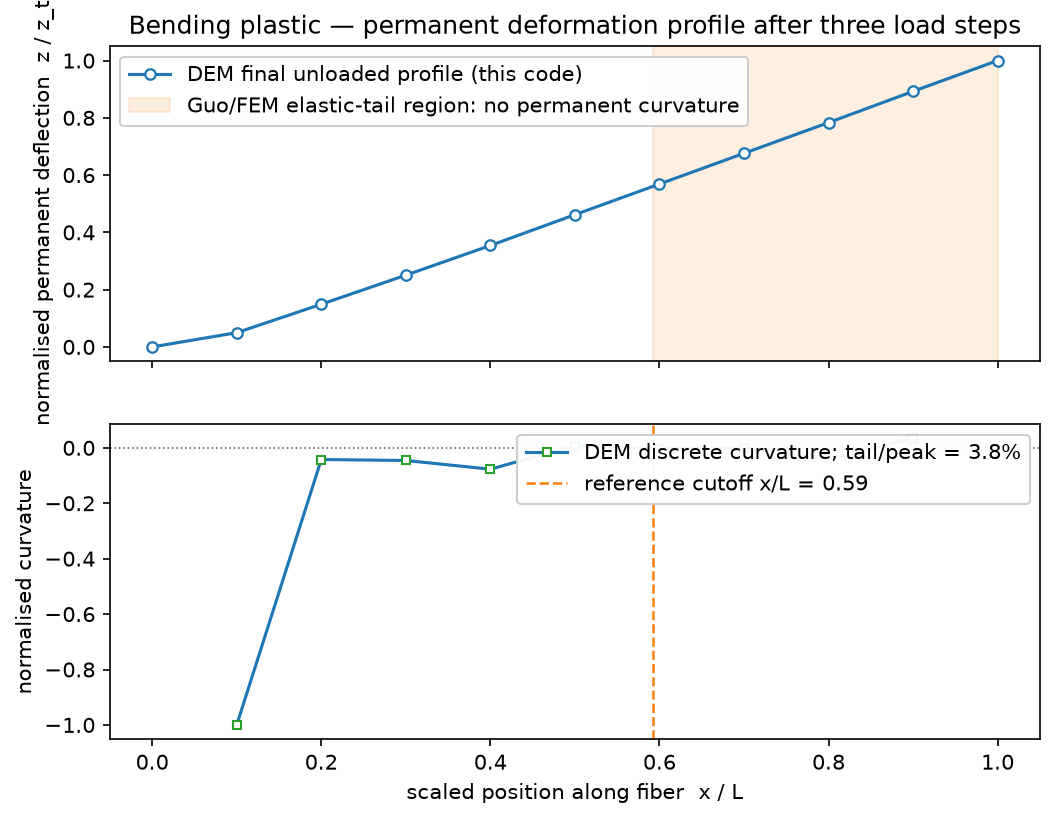
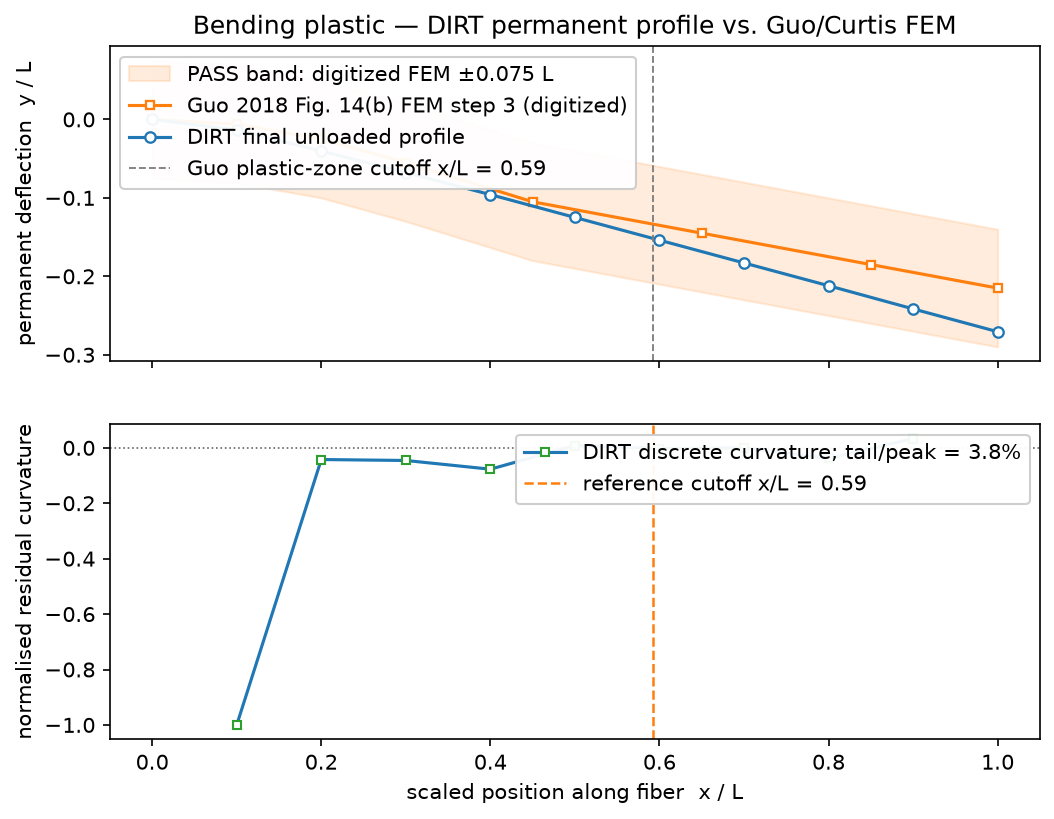
Add FEM profile gate for Guo bending plastic validation

diff --git a/examples/fiber_bond/validate.py b/examples/fiber_bond/validate.py
@@ -54,10 +54,35 @@ def load_profile(path):
     return sorted(rows, key=lambda r: r["x0"])
 
 
+def load_xy_reference(path):
+    rows = []
+    with open(path, newline="") as f:
+        lines = [line for line in f if not line.lstrip().startswith("#")]
+    reader = csv.DictReader(lines)
+    for row in reader:
+        rows.append((float(row["x_over_L"]), float(row["y_over_L"])))
+    return rows
+
+
 def linear_fit_through_origin(x, y):
     sxx = sum(xi * xi for xi in x)
     sxy = sum(xi * yi for xi, yi in zip(x, y))
     return sxy / sxx if sxx else 0.0
+
+
+def interp_linear(xs, ys, x):
+    if not xs:
+        return float("nan")
+    if x <= xs[0]:
+        return ys[0]
+    if x >= xs[-1]:
+        return ys[-1]
+    for i in range(len(xs) - 1):
+        if xs[i] <= x <= xs[i + 1]:
+            span = xs[i + 1] - xs[i]
+            t = (x - xs[i]) / span if span else 0.0
+            return ys[i] * (1.0 - t) + ys[i + 1] * t
+    return ys[-1]
 
 
 # ── Plot helpers ─────────────────────────────────────────────────────────────
@@ -597,6 +622,10 @@ def validate_bending_plastic_guo(rows, profile, out_dir):
     # straight-line extension of the fixed-end permanent rotation.
     profile_ok = False
     tail_curv_ratio = float("inf")
+    fem_profile_ok = False
+    fem_rms_err = float("inf")
+    fem_max_err = float("inf")
+    fem_tip_rel_err = float("inf")
     tip_set_ratio = 0.0
     cutoff_x_over_l = float("nan")
     profile_rows = profile or []
@@ -623,14 +652,41 @@ def validate_bending_plastic_guo(rows, profile, out_dir):
         max_curv = max(curv) if curv else 0.0
         tail_curv = [c for s, c in zip(curv_x, curv) if s >= cutoff_x_over_l]
         tail_curv_ratio = (max(tail_curv) / max_curv) if max_curv > 0 and tail_curv else 0.0
-        profile_ok = tip_set_ratio > 0.02 and tail_curv_ratio <= 0.10
+        reference_path = Path(__file__).resolve().parent / "data" / "guo2018_fig14b_step3_fem_alpha1885.csv"
+        fem_ref = load_xy_reference(reference_path)
+        sx = [(x - xs0[0]) / length for x in xs0]
+        y_over_l = [z / length for z in zs]
+        fem_errs = []
+        for x_ref, y_ref in fem_ref:
+            y_dem = interp_linear(sx, y_over_l, x_ref)
+            fem_errs.append(y_dem - y_ref)
+        fem_rms_err = math.sqrt(sum(e * e for e in fem_errs) / len(fem_errs)) if fem_errs else float("inf")
+        fem_max_err = max(abs(e) for e in fem_errs) if fem_errs else float("inf")
+        fem_tip = fem_ref[-1][1] if fem_ref else float("nan")
+        dem_tip = interp_linear(sx, y_over_l, 1.0)
+        fem_tip_rel_err = abs(dem_tip - fem_tip) / abs(fem_tip) if abs(fem_tip) > 1e-30 else float("inf")
+        # The reference is a digitized FEM curve for a 20/40/60 sphero-cylinder
+        # study. The paper reports the coarsest DEM fiber still differs from FEM
+        # by about 30% at the free end (Fig. 15); this 11-sphere validation case
+        # is intentionally smaller, so the gate keeps that published coarse-grid
+        # envelope visible instead of pretending to be mesh-converged.
+        fem_profile_ok = (
+            fem_rms_err <= 0.05
+            and fem_max_err <= 0.075
+            and fem_tip_rel_err <= 0.35
+        )
+        profile_ok = tip_set_ratio > 0.02 and tail_curv_ratio <= 0.10 and fem_profile_ok
 
     ok = cap_ok and accum_ok and profile_ok
     print(f"  Guo load F_t^0 used            : {f_peak:.6e} N")
     print(f"  predicted elastic-tail start   : x/L = {cutoff_x_over_l:.3f}  (1 - M_p/(F_t^0 L))")
     print(f"  final tip permanent set / L    : {tip_set_ratio:.3%}")
     print(f"  tail curvature / peak curvature: {tail_curv_ratio:.3%}")
-    print(f"  permanent profile gate?        : {profile_ok}  (set/L > 2%, tail curvature <= 10%)")
+    print(f"  FEM profile RMS |Δ(y/L)|       : {fem_rms_err:.4f}  (limit 0.050)")
+    print(f"  FEM profile max |Δ(y/L)|       : {fem_max_err:.4f}  (limit 0.075)")
+    print(f"  FEM free-end relative error    : {fem_tip_rel_err:.3%}  (limit 35%)")
+    print(f"  permanent profile gate?        : {profile_ok}  "
+          "(set/L > 2%, tail curvature <= 10%, FEM profile within coarse-grid band)")
     print(f"  cap respected?                 : {cap_ok}")
     print(f"  status                         : {'PASS' if ok else 'FAIL'}")
 
@@ -704,17 +760,25 @@ def validate_bending_plastic_guo(rows, profile, out_dir):
         xs0 = [p["x0"] for p in profile_rows]
         zs = [p["z"] for p in profile_rows]
         length = xs0[-1] - xs0[0]
-        z_tip = zs[-1] if abs(zs[-1]) > 1e-30 else 1.0
         sx = [(x - xs0[0]) / length for x in xs0]
-        zn = [z / z_tip for z in zs]
+        y_over_l = [z / length for z in zs]
+        reference_path = Path(__file__).resolve().parent / "data" / "guo2018_fig14b_step3_fem_alpha1885.csv"
+        fem_ref = load_xy_reference(reference_path)
+        fem_x = [x for x, _ in fem_ref]
+        fem_y = [y for _, y in fem_ref]
+        band = 0.075
 
         fig, (ax1, ax2) = plt.subplots(2, 1, figsize=(8, 6), sharex=True)
-        ax1.plot(sx, zn, "o-", ms=5, mfc="white", mec="C0", mew=1.1,
-                 label="DEM final unloaded profile (this code)")
-        ax1.axvspan(cutoff_x_over_l, 1.0, color="C1", alpha=0.12,
-                    label="Guo/FEM elastic-tail region: no permanent curvature")
-        ax1.set_ylabel("normalised permanent deflection  z / z_tip")
-        ax1.set_title("Bending plastic — permanent deformation profile after three load steps")
+        ax1.fill_between(fem_x, [y - band for y in fem_y], [y + band for y in fem_y],
+                         color="C1", alpha=0.14, label="PASS band: digitized FEM ±0.075 L")
+        ax1.plot(fem_x, fem_y, "s-", ms=4, mfc="white", mec="C1", mew=1.1,
+                 color="C1", label="Guo 2018 Fig. 14(b) FEM step 3 (digitized)")
+        ax1.plot(sx, y_over_l, "o-", ms=5, mfc="white", mec="C0", mew=1.1,
+                 label="DIRT final unloaded profile")
+        ax1.axvline(cutoff_x_over_l, ls="--", c="0.5", lw=0.9,
+                    label=f"Guo plastic-zone cutoff x/L = {cutoff_x_over_l:.2f}")
+        ax1.set_ylabel("permanent deflection  y / L")
+        ax1.set_title("Bending plastic — DIRT permanent profile vs. Guo/Curtis FEM")
         ax1.legend(loc="upper left", framealpha=0.95)
 
         curv_signed = []
@@ -729,12 +793,12 @@ def validate_bending_plastic_guo(rows, profile, out_dir):
         scale = max(abs(c) for c in curv_signed) if curv_signed else 1.0
         ax2.plot(curv_x, [c / scale for c in curv_signed],
                  "s-", ms=4, mfc="white", mec="C2", mew=1.0,
-                 label=f"DEM discrete curvature; tail/peak = {tail_curv_ratio:.1%}")
+                 label=f"DIRT discrete curvature; tail/peak = {tail_curv_ratio:.1%}")
         ax2.axvline(cutoff_x_over_l, ls="--", c="C1", lw=1.2,
                     label=f"reference cutoff x/L = {cutoff_x_over_l:.2f}")
         ax2.axhline(0.0, ls=":", c="0.4", lw=0.8)
         ax2.set_xlabel("scaled position along fiber  x / L")
-        ax2.set_ylabel("normalised curvature")
+        ax2.set_ylabel("normalised residual curvature")
         ax2.legend(loc="upper right", framealpha=0.95)
         out = Path(out_dir) / "bending_plastic_permanent_profile.png"
         fig.savefig(out, dpi=150, bbox_inches="tight")

diff --git a/examples/fiber_bond/README.md b/examples/fiber_bond/README.md
@@ -31,7 +31,7 @@ python3 examples/fiber_bond/validate.py \
 | `cantilever_bending.toml`      | Cantilever bending  | `y(x) = F·x²·(3L−x)/(6·E_b·I)` (Guo Sec. 2.1) | PASS, ~0.6% error |
 | `bending_vibration.toml`       | Free bending vibration | `T = 1.787·L²·√(ρ_l/EI)` (Guo Eq. 18, discrete-mass form) | PASS, ~4.7% error |
 | `axial_plastic_piecewise.toml` | Axial plastic loading | Piecewise-linear hardening envelope (this code's config) | PASS, < 0.1% error |
-| `bending_plastic_guo.toml`     | Guo three-step bending plasticity (trilinear) | `F_t^0 = E_b I/(2L_c²)` loading; permanent curvature confined before the Guo/FEM elastic tail (`x/L ≈ 0.593`) | PASS, tail curvature 3.82% of peak |
+| `bending_plastic_guo.toml`     | Guo three-step bending plasticity (trilinear) | `F_t^0 = E_b I/(2L_c²)` loading; permanent profile vs digitized Guo Fig. 14(b) FEM curve | PASS, RMS `|Δ(y/L)| = 0.0271` |
 
 ![fiber_bond measured-vs-reference summary](plots/fiber_bond_measured_vs_reference.png)
 
@@ -43,9 +43,10 @@ bending plastic.*
 ![Guo/Curtis permanent bending profile](plots/bending_plastic_permanent_profile.png)
 
 *Permanent unloaded deformation after the three Guo/Curtis load steps. The
-orange region is the independent beam/FEM reference tail from
-`x/L = 1 - M_p/(F_t^0 L)`, where Guo et al. report no permanent bending
-curvature; latest run PASS with tail curvature 3.82% of the fixed-end peak
+orange curve is a digitized FEM reference from Guo et al. Fig. 14(b), step 3
+at `α = 1.885 s^-1`; the shaded band is the validator's `±0.075 L` max-error
+limit. Latest run PASS with RMS `|Δ(y/L)| = 0.0271`, max `0.0556`, free-end
+error `25.9%` (limit 35%), and tail curvature 3.82% of the fixed-end peak
 (limit 10%).*
 
 ## Breakage scenarios — see [`../fiber_bond_breakage`](../fiber_bond_breakage)
@@ -149,8 +150,12 @@ Guo trilinear envelope on the first monotonic loading: elastic slope followed
 by the elasto-plastic K_ep segment for the recorded middle bond. On unloading
 the DEM returns along the elastic slope K_e — kinematic-hardening behaviour
 matching Guo Fig. 9 Path III. The fixed-end portion carries the permanent set
-and the validator checks the unloaded profile against the Guo/FEM elastic-tail
-criterion from Figs. 11-12.
+and the validator checks the unloaded profile against digitized Guo Fig. 14(b)
+FEM reference points stored in `data/guo2018_fig14b_step3_fem_alpha1885.csv`.
+Because Guo Fig. 15 reports about 30% free-end DEM/FEM difference for the
+coarsest published fiber (`N_e = 20`), this intentionally short 11-particle
+validation case gates RMS and max profile error plus a 35% free-end coarse-grid
+band rather than claiming mesh-converged FEM agreement.
 
 Under repeated loading at the *same* peak force, plastic flow at any
 given bond happens only on cycle 1 — kinematic hardening leaves the

diff --git a/examples/VALIDATION.md b/examples/VALIDATION.md
@@ -1026,11 +1026,12 @@ for all plotted checks.*
 
 ![Guo/Curtis permanent bending profile](fiber_bond/plots/bending_plastic_permanent_profile.png)
 
-*Final unloaded profile after the three Guo/Curtis load steps. The shaded tail
-starts at the independent beam/FEM reference transition
-`x/L = 1 - M_p/(F_t^0 L) = 0.593`; the gate requires nonzero permanent set and
-tail curvature below 10% of the fixed-end peak. Latest regenerated run: PASS,
-tail curvature 3.82%.*
+*Final unloaded profile after the three Guo/Curtis load steps, compared with a
+digitized Guo et al. Fig. 14(b) FEM step-3 profile at `α = 1.885 s^-1`. The
+shaded band is the validator's max-error limit (`±0.075 L`); the vertical marker
+is the plastic-zone estimate `x/L = 1 - M_p/(F_t^0 L) = 0.593`. Latest
+regenerated run: PASS, RMS `|Δ(y/L)| = 0.0271`, max `0.0556`, free-end error
+25.9% (limit 35%), and tail curvature 3.82% (limit 10%).*
 
 **Honest read:** this is a deterministic mechanics validation for a short
 bonded-particle chain, not an experimental fiber-calibration study. The plastic
